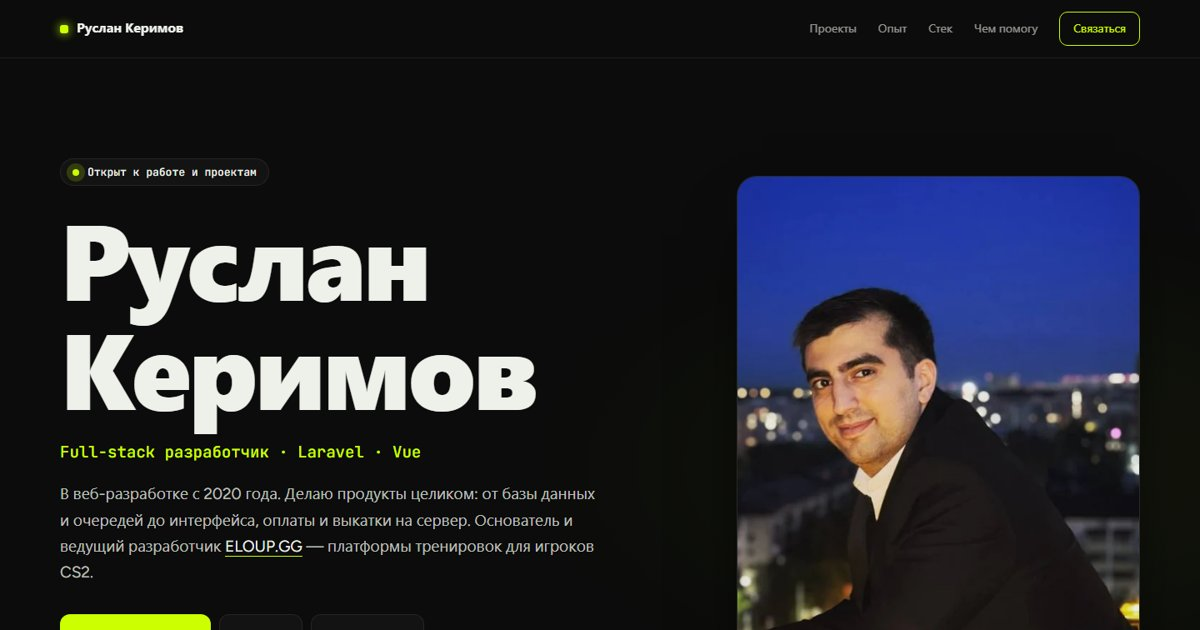
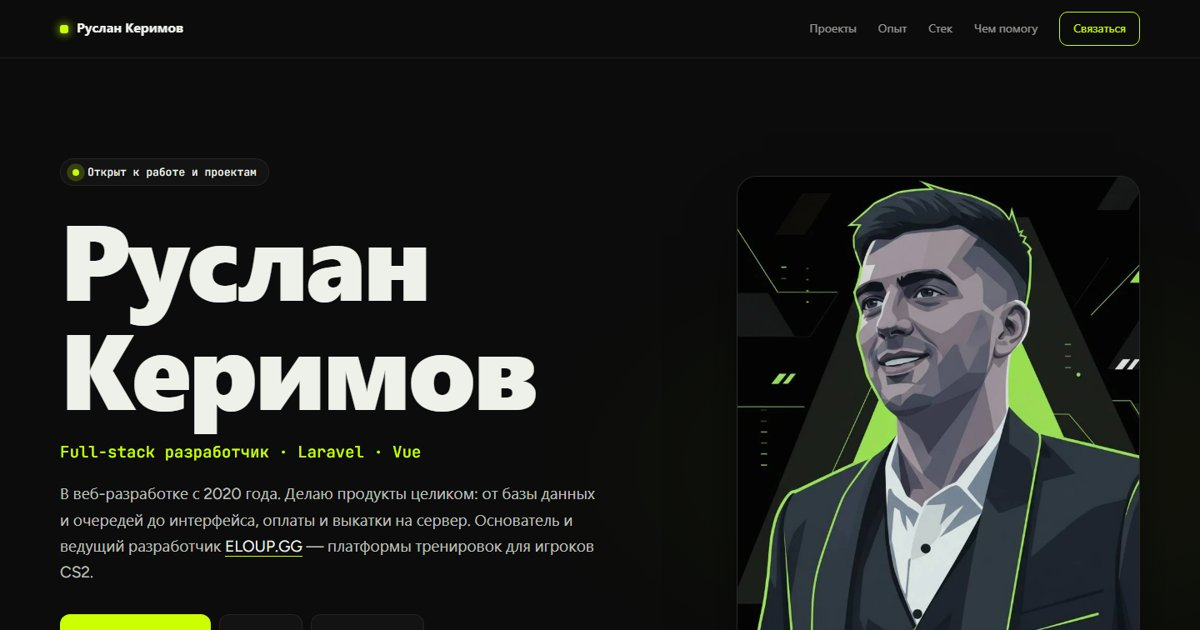
Иллюстрация на сайте, настоящее фото — в PDF

Changed region(s): [[0.6167, 0.2714, 0.9558, 1.0]]

diff --git a/index.html b/index.html
@@ -41,7 +41,7 @@
         <p class="hero__meta mono">Тюмень · удалённо, гибрид или офис</p>
       </div>
       <div class="hero__photo">
-        <img src="img/photo.webp" alt="Руслан Керимов" width="560" height="700">
+        <img src="img/portrait.webp" alt="Руслан Керимов — иллюстрация" width="762" height="953">
         <span class="hero__badge mono">Тюмень · Laravel · Vue</span>
       </div>
     </section>
